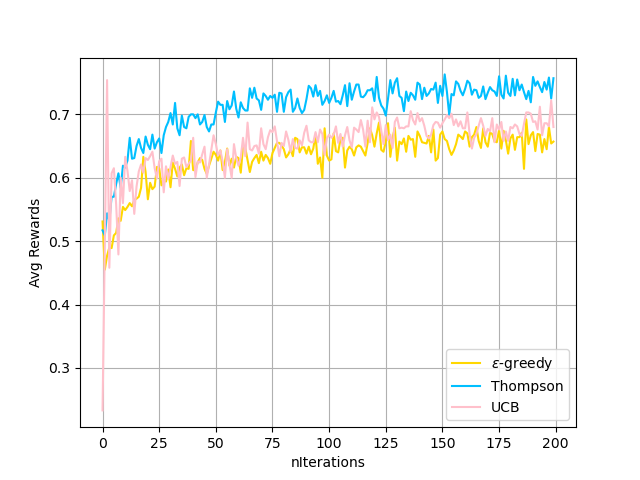
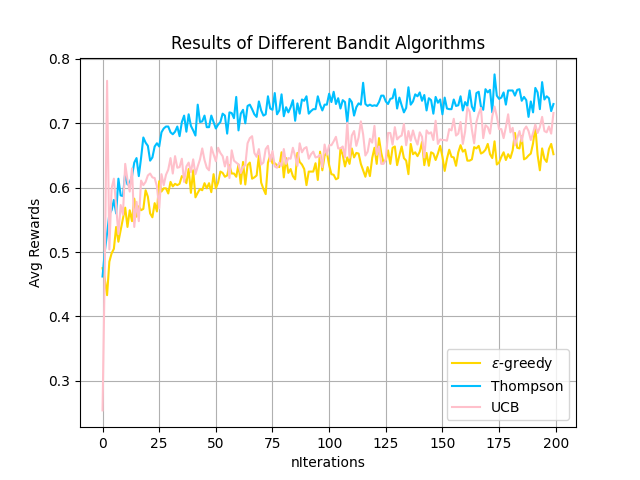
add seed to a2p1

diff --git a/a02/p1/TestBandit.py b/a02/p1/TestBandit.py
@@ -26,6 +26,7 @@ def plot_curves(data, colors, labels):
     plt.ylabel("Avg Rewards")
     plt.title("Results of Different Bandit Algorithms")
     plt.grid()
+    plt.savefig('./a2p1.png')
     plt.show()
 
 def main(n_eval=1000, nIterations=200):
@@ -53,27 +54,3 @@ def main(n_eval=1000, nIterations=200):
 
 if __name__ == "__main__":
     main(1000, 200)
-
-"""
-# Multi-arm bandit problems (3 arms with probabilities 0.25, 0.5 and 0.75)
-T = np.array([[[1]],[[1]],[[1]]])
-R = np.array([[0.25],[0.5],[0.75]])
-discount = 0.999
-mdp = MDP.MDP(T,R,discount)
-banditProblem = RL2.RL2(mdp,sampleBernoulli)
-
-# Test epsilon greedy strategy
-empiricalMeans, epsilon_rewards = banditProblem.epsilonGreedyBandit(nIterations=200)
-print("\nepsilonGreedyBandit results")
-print(empiricalMeans)
-
-# Test Thompson sampling strategy
-empiricalMeans, ts_rewards = banditProblem.thompsonSamplingBandit(prior=np.ones([mdp.nActions,2]),nIterations=200)
-print("\nthompsonSamplingBandit results")
-print(empiricalMeans)
-
-# Test UCB strategy
-empiricalMeans, ucb_rewards = banditProblem.UCBbandit(nIterations=200)
-print("\nUCBbandit results")
-print(empiricalMeans)
-"""

diff --git a/a02/p1/RL2.py b/a02/p1/RL2.py
@@ -1,6 +1,7 @@
 import numpy as np
 import MDP
 
+np.random.seed(42)
 class RL2:
     def __init__(self,mdp,sampleReward):
         '''Constructor for the RL class
@@ -110,7 +111,8 @@ class RL2:
         empiricalMeans = np.zeros(self.mdp.nActions,)
         actions_counter, ucb_rewards = np.zeros_like(empiricalMeans), [None] * nIterations
         state = 0
-        epsilon = 1e-08
+        # epsilon is to avoid numerical overflow issue when n_a = 0.
+        epsilon = 1e-16
         for t in range(1, nIterations + 1):
             action = self.UCBSelectAction(empiricalMeans, actions_counter, t, epsilon)
             [reward, state] = self.sampleRewardAndNextState(state, action)

diff --git a/a02/p1/MDP.py b/a02/p1/MDP.py
@@ -1,4 +1,3 @@
-from re import S
 import numpy as np
 
 class MDP:
